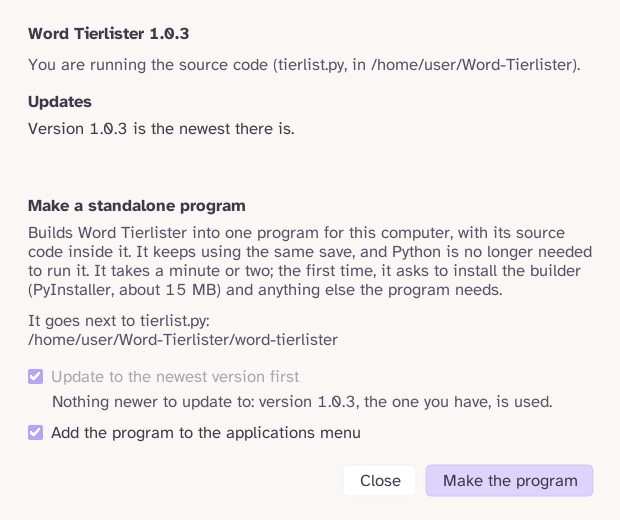
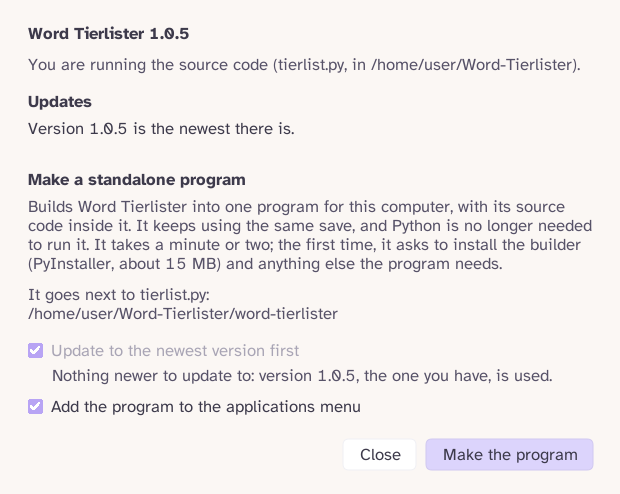
Docs: bring the guides and charts up to date with #36-#47
- Release notes: a Mac app goes in Applications, keeps its save in Application
  Support and unpacks its source into Documents (F-47); the folder-of-its-own
  advice is for Windows and Linux.
- Source & Updates screenshot retaken at 1.0.5.
- DEVELOPERS charts: the big picture names review.py and the sync modules;
  the import layers and table include review (and tierlist -> sources);
  start-up shows --build-nightly / --review-rude; the update thread also asks
  for main; builds show SHA256SUMS.txt, attestations and the nightly path;
  meta lists monitor_zooms, censor_kinds, dev_tools. New chart: testing and
  tuning the rudeness rules (OB-9, OB-10).
- DEVELOPERS folders: tune_rudeness.py and the test workflows; the test
  workflows skip docs-only changes.
- CLAUDE.md's layering line includes review.

Claude-Session: https://claude.ai/code/session_018Tnr3KJQaAytqSq5cFu2b4

diff --git a/DEVELOPERS.md b/DEVELOPERS.md
@@ -38,12 +38,14 @@ flowchart TB
     wordsource["wordsource.py<br/>build the word list from Wiktionary or WordNet,<br/>frequencies, kinds of word, queue prep"]
     app["app.py: App<br/>the main window and its four modes"]
     widgets["widgets.py, ui_chart.py, smooth.py<br/>word card, tier pills, duel cards, toasts,<br/>definitions pane, tier chart, progress shelf"]
-    dialogs["browser.py, dealing.py, tiercolours.py,<br/>shortcuts.py, sources.py, filepicker.py<br/>Browse and the settings windows"]
+    dialogs["browser.py, dealing.py, tiercolours.py,<br/>shortcuts.py, sources.py, filepicker.py, review.py<br/>Browse, the settings windows, the rude-meaning review"]
+    sync["syncdialog.py, syncfiles.py, syncthing_api.py<br/>sync with other devices"]
     defs["definitions.py: Definitions<br/>lookups on a worker thread"]
     store[("store.py: Store<br/>tierlist.db (SQLite)")]
     rude["rudeness.py, obscene.py<br/>which meanings are rude"]
     standalone["standalone.py, deps.py<br/>packages, builds, self-update"]
-    net{{"the internet:<br/>kaikki.org Wiktionary, dictionaryapi.dev,<br/>GitHub releases, PyPI"}}
+    net{{"the internet:<br/>kaikki.org Wiktionary, dictionaryapi.dev,<br/>GitHub releases and main, PyPI"}}
+    peers{{"your other devices,<br/>through Syncthing"}}
 
     user --> app
     main --> startup --> wordsource --> store
@@ -60,6 +62,9 @@ flowchart TB
     standalone -.-> net
     dialogs --> standalone
     store --> rude
+    app --> sync
+    sync -- "Store.apply_sync: the newer change wins" --> store
+    sync -.-> peers
 ```
 
 ## Import layers
@@ -79,7 +84,7 @@ flowchart TB
     end
     subgraph L4["windows and views"]
         direction LR
-        ui_chart["ui_chart"] ~~~ browser["browser"] ~~~ filepicker["filepicker"] ~~~ shortcuts["shortcuts"] ~~~ tiercolours["tiercolours"] ~~~ syncdialog["syncdialog"] ~~~ dealing["dealing"] ~~~ sources["sources"]
+        ui_chart["ui_chart"] ~~~ browser["browser"] ~~~ filepicker["filepicker"] ~~~ shortcuts["shortcuts"] ~~~ tiercolours["tiercolours"] ~~~ syncdialog["syncdialog"] ~~~ review["review"] ~~~ dealing["dealing"] ~~~ sources["sources"]
     end
     subgraph L3["UI building blocks (tkinter)"]
         direction LR
@@ -107,8 +112,8 @@ note):
 
 | Module | Imports |
 |---|---|
-| `tierlist` | app, browser, constants, definitions, deps, errors, fonts, problems, saves, sizing, standalone, startup, store, theme, ui_style, wordsource |
-| `app` | browser, constants, dealing, definitions, deps, errors, filepicker, fonts, keymap, rudeness, saves, shortcuts, sizing, sources, standalone, syncdialog, theme, tiercolours, ui_chart, ui_motion, ui_style, widgets, wordsource |
+| `tierlist` | app, browser, constants, definitions, deps, errors, fonts, problems, saves, sizing, sources, standalone, startup, store, theme, ui_style, wordsource |
+| `app` | browser, constants, dealing, definitions, deps, errors, filepicker, fonts, keymap, review, rudeness, saves, shortcuts, sizing, sources, standalone, syncdialog, theme, tiercolours, ui_chart, ui_motion, ui_style, widgets, wordsource |
 | `sources` | constants, deps, errors, filepicker, fonts, problems, saves, standalone, startup, theme, widgets |
 | `syncdialog` | deps, errors, fonts, problems, saves, startup, syncfiles, syncthing_api, theme, widgets |
 | `browser` | constants, errors, fonts, keymap, sizing, smooth, store, theme, ui_motion, widgets |
@@ -116,6 +121,7 @@ note):
 | `dealing` | constants, fonts, obscene, rudeness, theme, widgets |
 | `tiercolours` | constants, fonts, smooth, theme, ui_motion, widgets |
 | `shortcuts` | fonts, keymap, sizing, theme, widgets |
+| `review` | constants, fonts, keymap, sizing, theme, ui_style, widgets |
 | `ui_chart` | constants, smooth, theme, ui_motion |
 | `widgets` | constants, definitions, fonts, rudeness, sizing, smooth, theme, ui_motion |
 | `startup` | constants, deps, errors, fonts, problems, sizing, syncthing_api, theme |
@@ -153,7 +159,12 @@ flowchart TB
     J --> K["startup.run_with_progress(set_up)<br/>on a worker thread, a progress window with time left"]
     K --> K1["set_up: build_wiktionary or the word list,<br/>then wordsource.prepare_queue"]
     K1 --> L["App(root, store, Definitions(store)).open_window()"]
-    L --> M["root.mainloop()"]
+    L --> L1{"--build-nightly or --review-rude?<br/>(the program's nightly update; a developer option)"}
+    L1 -- "--build-nightly" --> L2["SourceDialog(go=True, target=...):<br/>build the program in place of the old one"]
+    L1 -- "--review-rude" --> L3["the review of rude meanings<br/>(src/review.py) opens over the window"]
+    L1 -- neither --> M["root.mainloop()"]
+    L2 --> M
+    L3 --> M
     M --> N{"App.reopen asked?<br/>(dark mode, tier colours)"}
     N -- yes --> I2["app.reopen_while_asked: build the window again<br/>in the new look, then take over the old one"] --> M
     N -- no --> O["end_session in the log"]
@@ -276,7 +287,7 @@ erDiagram
     }
     meta {
         text key PK
-        text value "settings: zoom, dark_mode, keymap, tier_colors, qseed, ..."
+        text value "settings: zoom, monitor_zooms, dark_mode, keymap, tier_colors, censor_kinds, dev_tools, qseed, ..."
     }
     words ||--o{ comparisons : "winner / loser"
     words ||--o{ conflicts : "a / b"
@@ -300,7 +311,7 @@ flowchart LR
     subgraph workers["worker threads (never tkinter)"]
         Setup["startup.run_with_progress:<br/>building the word list"]
         Defs["Definitions._worker:<br/>WordNet, then dictionaryapi.dev"]
-        Upd["the update check:<br/>standalone.latest_release"]
+        Upd["the update check (sources.py):<br/>standalone.latest_release, then main<br/>for a nightly (latest_main, nightly_changes)"]
         RudeRead["App._start_rude_read:<br/>an older save's rude meanings"]
         Deal["dealing.py: a reshuffle<br/>(App.busy; nothing else writes)"]
         Pip["deps.install: pip, and a watcher<br/>measuring its download"]
@@ -322,9 +333,11 @@ flowchart LR
     src["the source<br/>(tierlist.py + src/)"] -- "tools/build.py<br/>(PyInstaller; standalone.py)" --> prog["a program for this computer<br/>(word-tierlister, .exe, .app),<br/>its source packed inside"]
     src -- "push to main" --> gh["GitHub"]
     gh -- "Actions > Build programs > Run workflow,<br/>or a pushed tag v&lt;VERSION&gt;" --> wf[".github/workflows/build.yml<br/>Linux, Windows, macOS builds,<br/>each started once to check it"]
-    wf --> rel["a GitHub Release<br/>word-tierlister-linux, -windows.exe, -macos.zip"]
+    wf --> rel["a GitHub Release<br/>word-tierlister-linux, -windows.exe, -macos.zip,<br/>SHA256SUMS.txt and a build attestation each"]
     rel -- "README download links" --> users["people"]
-    rel -- "File > Source & Updates > Update<br/>(sources.py, standalone.latest_release)" --> prog2["the program replaces itself<br/>(kept as .old until the new one starts)"]
+    rel -- "File > Source & Updates > Update<br/>(sources.py, standalone.latest_release),<br/>checked against SHA256SUMS.txt" --> prog2["the program replaces itself<br/>(kept as .old until the new one starts)"]
+    gh -- "Update to nightly, while main differs<br/>(standalone.latest_main)" --> night["main's source into the source folder<br/>beside the program, which builds<br/>its replacement (--build-nightly)"]
+    night --> prog2
     gh -- "git pull, or a sync of the source zip" --> src2["a source folder brought up to date"]
     prog -- "Unpack the source code" --> src
 ```
@@ -400,10 +413,11 @@ src/               the program's modules; src/icons/ holds its icon (drawn by to
 tests/             the self-tests and run_tests.sh
 tools/             check_release.py (pre-hand-off checks, builds the zip), layout_trace.py (layout jitter finder),
                    build.py + hooks/ (build it as a program), measure_rudeness.py (measures the rudeness rules),
+                   tune_rudeness.py (tunes the rules' numbers against the review's answers),
                    make_icon.py (draws the icon), make_typefaces.py (fetches the fonts), speed_check.py and
                    stress_ui.py (speed and stress checks), notes.py (keeps the notes beside the code current)
 .claude/           notes for Claude Code: CLAUDE.md (project notes) and CHECKLIST.md
-.github/           the build and macOS test workflows, the release notes
+.github/           the build workflow, the test workflows (Linux and Windows; macOS), the release notes
 docs/images/       the README's screenshots
 README.md          the user-facing introduction; DEVELOPERS.md is this guide
 ```
@@ -527,7 +541,9 @@ It stops at the first failure; `KEEP_GOING=1` runs them all and lists every fail
 `SHARD=k/n` runs only part k of n, the parts about equally long (`tests/_shard.py` weighs each test by its time on
 GitHub's Intel Mac); the workflows run the parts on separate machines at once.
 Without a Mac, the Test on macOS workflow runs the same tests on GitHub's Macs (Actions > Test on macOS), and
-Test on Linux and Windows runs them on GitHub's Linux and Windows machines.
+Test on Linux and Windows runs them on GitHub's Linux and Windows machines. Both test workflows run only when
+a change touches code (`.py` files, `src/`, `tests/`, `requirements.txt` or the workflow itself): a push or pull
+request that changes only `.md` files, docs or images skips them. For such a change, run just the tests that cover it.
 
 ## Reference
 
@@ -603,6 +619,20 @@ with the best numbers (a kind more than doubling is marked, and Keep asks first)
 listed (all of them in `rude_tune_misses.txt` beside the answers: ideas for new rules, since no number fixes those).
 Keep writes the best numbers into `src/rudeness.py` and bumps `RUDENESS_VERSION`; read the diff, run the tests and
 commit. It is still rules only: nothing in the program reads the answers.
+
+```mermaid
+flowchart TB
+    D["the Wiktionary download"] -- "measure_rudeness.py fetch" --> E["the compact entries<br/>(read once, about 3 GB)"]
+    E -- "measure_rudeness.py sample" --> RV["rude_review.jsonl<br/>1,500 words, the rules' guesses filled in"]
+    RV --> WIN["Review rude meanings (src/review.py)<br/>How words are dealt's bubble, or --review-rude"]
+    WIN -- "1-7 a meaning's kind, S smear the word;<br/>saved on every change" --> ANS["rude_review_answers.jsonl<br/>beside the review file"]
+    ANS -- "Score the rules (bubble), or<br/>measure_rudeness.py answers" --> SC["how often the rules agree,<br/>meaning by meaning"]
+    ANS -- "tune_rudeness.py" --> TU["tune on 4 parts, test on the 5th,<br/>each part in turn; the guard;<br/>the meanings still wrong"]
+    E --> TU
+    TU -- "Keep" --> RU["src/rudeness.py: the new numbers,<br/>RUDENESS_VERSION bumped"]
+    RU -- "read the diff, run the tests, commit" --> PR["the program scores words again<br/>with the new rules (never the answers)"]
+    RU -. "the next sample" .-> RV
+```
 
 ```mermaid
 flowchart TB

diff --git a/.github/release-notes.md b/.github/release-notes.md
@@ -5,11 +5,13 @@ the first time.
   also ask; allow it.
 - **Linux:** a downloaded file cannot be started until it is allowed to run: in its Properties tick "Allow executing
   file as program", or run `chmod +x word-tierlister-linux`.
-- **macOS** (Apple Silicon; not tested on a real Mac yet, only by automated tests on GitHub's Macs): unzip `word-tierlister-macos.zip` and move "Word Tierlister" into a folder of its own. The
-  first time, macOS says it cannot check the app: open **System Settings > Privacy & Security**, scroll down and click
-  **Open Anyway**. If it says the app "is damaged", run `xattr -dr com.apple.quarantine "Word Tierlister.app"` in
-  Terminal, then open it again.
+- **macOS** (Apple Silicon; not tested on a real Mac yet, only by automated tests on GitHub's Macs): unzip
+  `word-tierlister-macos.zip` and drag "Word Tierlister" into **Applications**. The first time, macOS says it cannot
+  check the app: open **System Settings > Privacy & Security**, scroll down and click **Open Anyway**. If it says the
+  app "is damaged", run `xattr -dr com.apple.quarantine "/Applications/Word Tierlister.app"` in Terminal, then open
+  it again.
 
-Put the program in a folder of its own: your save stays next to it, and the first start unpacks the program's
-source code into "Word Tierlister source" beside it (File > Source & Updates has it too). To run from the source
-code instead, see the README.
+On Windows and Linux, put the program in a folder of its own: your save stays next to it, and the first start
+unpacks the program's source code into "Word Tierlister source" beside it. A Mac app keeps your save in
+`~/Library/Application Support/Word Tierlister` and unpacks its source into **Documents**. File > Source & Updates
+has the source too. To run from the source code instead, see the README.

diff --git a/.claude/CLAUDE.md b/.claude/CLAUDE.md
@@ -32,7 +32,7 @@ pitfalls" are written by hand: add the rule or the bug there when you fix one. c
 
 ## Layering (a file only imports from files earlier in this list; check_release.LAYERS enforces it)
 constants, obscene, rudeness, problems, deps, syncthing_api, keymap, bundle, standalone -> store -> wordsource / saves / definitions -> syncfiles -> theme, fonts, sizing, ui_style,
-ui_motion, smooth, widgets, errors, startup -> ui_chart, browser, filepicker, shortcuts, tiercolours, syncdialog, dealing, sources -> app -> tierlist.
+ui_motion, smooth, widgets, errors, startup -> ui_chart, browser, filepicker, shortcuts, tiercolours, syncdialog, review, dealing, sources -> app -> tierlist.
 - Only UI files import tkinter. `problems.py` is deliberately tkinter-free.
 - Every public Store mutator commits before returning. No animation frame may touch the database.
 - Worker threads (startup) never touch tkinter.
